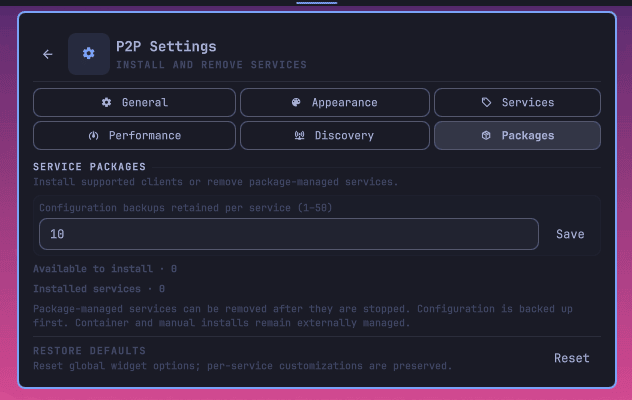
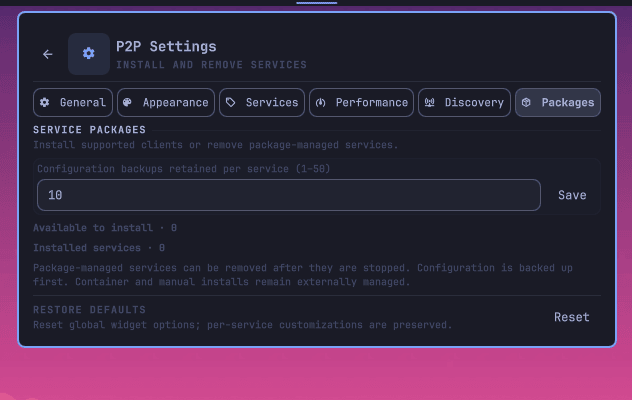
refactor: optimize settings layouts

diff --git a/P2PAppearanceSettings.qml b/P2PAppearanceSettings.qml
@@ -25,8 +25,10 @@ ColumnLayout {
             Button { text: "Save"; onClicked: page.saveWidgetIcon(widgetIconEditor.text) }
           }
 
-          IntegerSetting { controller: page.controller; settingKey: "popupMaxHeight"; label: "Popup maximum height"; minimum: 360; maximum: 900; fallback: 600 }
-          IntegerSetting { controller: page.controller; settingKey: "popupWidth"; label: "Popup width"; minimum: 420; maximum: 800; fallback: 600 }
+          P2PSettingsGrid {
+            IntegerSetting { controller: page.controller; settingKey: "popupMaxHeight"; label: "Popup maximum height"; minimum: 360; maximum: 900; fallback: 600 }
+            IntegerSetting { controller: page.controller; settingKey: "popupWidth"; label: "Popup width"; minimum: 420; maximum: 800; fallback: 600 }
+          }
           Dropdown { objectName: "barPresentationDropdown"; Layout.fillWidth: true; label: "Bar presentation"; value: String(page.controller.setting("barPresentation","active")); options: [{value:"icon",label:"Icon only"},{value:"active",label:"Active count"},{value:"active-total",label:"Active / total"},{value:"health",label:"Health indicator"},{value:"category-active",label:"Category active counts"},{value:"category-active-total",label:"Category active / total"}]; foreground: Color.popups.text; accent: Color.bar.active; onChanged: function(next) { page.controller.persistKeepingOpen({barPresentation:next}) } }
           P2PSettingToggle { controller: page.controller; settingKey: "hideZeroCount"; label: "Hide zero count"; fallback: false; description: "Show only the icon when no services are active." }
           ColumnLayout {
@@ -46,10 +48,12 @@ ColumnLayout {
               }
             }
           }
-          IntegerSetting { controller: page.controller; settingKey: "barFontSize"; label: "Bar font size"; minimum: 8; maximum: 28; fallback: 14 }
-          IntegerSetting { controller: page.controller; settingKey: "barHorizontalMargin"; label: "Horizontal margin"; minimum: 0; maximum: 24; fallback: 8 }
-          IntegerSetting { controller: page.controller; settingKey: "barVerticalPadding"; label: "Vertical padding"; minimum: 0; maximum: 16; fallback: 6 }
-          IntegerSetting { controller: page.controller; settingKey: "barFixedWidth"; label: "Fixed width (0 = automatic)"; minimum: 0; maximum: 240; fallback: 0 }
+          P2PSettingsGrid {
+            IntegerSetting { controller: page.controller; settingKey: "barFontSize"; label: "Bar font size"; minimum: 8; maximum: 28; fallback: 14 }
+            IntegerSetting { controller: page.controller; settingKey: "barHorizontalMargin"; label: "Horizontal margin"; minimum: 0; maximum: 24; fallback: 8 }
+            IntegerSetting { controller: page.controller; settingKey: "barVerticalPadding"; label: "Vertical padding"; minimum: 0; maximum: 16; fallback: 6 }
+            IntegerSetting { controller: page.controller; settingKey: "barFixedWidth"; label: "Fixed width (0 = automatic)"; minimum: 0; maximum: 240; fallback: 0 }
+          }
           Dropdown { objectName: "barTextRotationDropdown"; Layout.fillWidth: true; label: "Text rotation"; value: String(page.controller.setting("barTextRotation", "normal")); options: [{value:"normal",label:"Normal"},{value:"clockwise",label:"Clockwise"},{value:"counterclockwise",label:"Counterclockwise"}]; foreground: Color.popups.text; accent: Color.bar.active; onChanged: function(next) { page.controller.persistKeepingOpen({barTextRotation:next}) } }
           P2PThemeRoleSetting { controller: page.controller; settingKey: "barForegroundColorRole"; label: "Idle color"; fallback: "foreground" }
           P2PThemeRoleSetting { controller: page.controller; settingKey: "barActiveColorRole"; label: "Active color"; fallback: "accent" }

diff --git a/P2PPerformanceSettings.qml b/P2PPerformanceSettings.qml
@@ -29,9 +29,12 @@ ColumnLayout {
           }
           P2PSectionHeading { title: "Refresh cadence"; description: "Set periodic polling and full reconciliation intervals." }
           SettingsSurface {
-          IntegerSetting { controller: page.controller; settingKey: "refreshSeconds"; label: "Open-panel refresh interval, seconds"; minimum: 2; maximum: 60; fallback: 5 }
-          IntegerSetting { controller: page.controller; settingKey: "backgroundRefreshSeconds"; label: "Background refresh interval, seconds"; minimum: 15; maximum: 300; fallback: 15 }
-          IntegerSetting { controller: page.controller; settingKey: "reconcileSeconds"; label: "Full container reconciliation, seconds"; minimum: 30; maximum: 600; fallback: 60; description: "Full scans include stopped containers; normal refreshes inspect running containers only." }
+          P2PSettingsGrid {
+            id: refreshCadenceGrid
+            IntegerSetting { controller: page.controller; settingKey: "refreshSeconds"; label: "Open-panel refresh interval, seconds"; minimum: 2; maximum: 60; fallback: 5 }
+            IntegerSetting { controller: page.controller; settingKey: "backgroundRefreshSeconds"; label: "Background refresh interval, seconds"; minimum: 15; maximum: 300; fallback: 15 }
+            IntegerSetting { Layout.columnSpan: refreshCadenceGrid.twoColumns ? 2 : 1; controller: page.controller; settingKey: "reconcileSeconds"; label: "Full container reconciliation, seconds"; minimum: 30; maximum: 600; fallback: 60; description: "Full scans include stopped containers; normal refreshes inspect running containers only." }
+          }
           }
           P2PSectionHeading { title: "Refresh triggers"; description: "Control event-driven and immediate refresh behavior." }
           SettingsSurface {
@@ -43,12 +46,13 @@ ColumnLayout {
           }
           P2PSectionHeading { title: "Traffic sampling"; description: "Smooth container counters and ignore insignificant transfer activity." }
           SettingsSurface {
-          IntegerSetting { controller: page.controller; settingKey: "trafficSmoothingSeconds"; label: "Traffic smoothing window, seconds"; minimum: 1; maximum: 30; fallback: 3 }
-          IntegerSetting { controller: page.controller; settingKey: "trafficMinimumBytesPerSecond"; label: "Minimum visible traffic, B/s"; minimum: 0; maximum: 10485760; fallback: 1024 }
+          P2PSettingsGrid {
+            IntegerSetting { controller: page.controller; settingKey: "trafficSmoothingSeconds"; label: "Traffic smoothing window, seconds"; minimum: 1; maximum: 30; fallback: 3 }
+            IntegerSetting { controller: page.controller; settingKey: "trafficMinimumBytesPerSecond"; label: "Minimum visible traffic, B/s"; minimum: 0; maximum: 10485760; fallback: 1024 }
+          }
           }
           P2PSectionHeading { title: "Monitor diagnostics"; description: "Live health from the shared background watcher." }
           SettingsSurface {
           Text { Layout.fillWidth: true; text: page.controller.monitoringTelemetryText(); textFormat: Text.PlainText; color: page.controller.p2pService && page.controller.p2pService.watcherHealth === "healthy" ? Color.muted : Color.urgent; wrapMode: Text.WordWrap; font.family: Style.font.family; font.pixelSize: Style.font.caption }
           }
 }
-

diff --git a/P2PGeneralSettings.qml b/P2PGeneralSettings.qml
@@ -48,7 +48,9 @@ ColumnLayout {
           P2PSettingToggle { controller: page.controller; settingKey: "notifyRecovery"; label: "Service recovery"; fallback: false }
           P2PSettingToggle { controller: page.controller; settingKey: "notifyUnhealthy"; label: "Unhealthy services"; fallback: true }
           P2PSettingToggle { controller: page.controller; settingKey: "notifyRestartEvents"; label: "Restart threshold"; fallback: true }
-          IntegerSetting { controller: page.controller; settingKey: "notificationCooldownSeconds"; label: "Notification cooldown, seconds"; minimum: 0; maximum: 300; fallback: 30 }
-          IntegerSetting { controller: page.controller; settingKey: "restartWarningThreshold"; label: "Restart warning threshold"; minimum: 1; maximum: 100; fallback: 3 }
+          P2PSettingsGrid {
+            IntegerSetting { controller: page.controller; settingKey: "notificationCooldownSeconds"; label: "Notification cooldown, seconds"; minimum: 0; maximum: 300; fallback: 30 }
+            IntegerSetting { controller: page.controller; settingKey: "restartWarningThreshold"; label: "Restart warning threshold"; minimum: 1; maximum: 100; fallback: 3 }
+          }
           }
 }

diff --git a/RuntimeSettingsNavigationTest.qml b/RuntimeSettingsNavigationTest.qml
@@ -19,7 +19,7 @@ ShellRoot {
     }
   }
 
-  P2PSettingsNavigation { id: navigation; controller: mockController }
+  P2PSettingsNavigation { id: navigation; width: 600; controller: mockController }
 
   function descendant(item, name) {
     if (!item) return null
@@ -37,7 +37,11 @@ ShellRoot {
     var back = descendant(navigation, "settingsBackButton")
     var saving = descendant(navigation, "settingsSaveLoadingIndicator")
     var saved = descendant(navigation, "settingsSavedStatus")
+    var pageGrid = descendant(navigation, "settingsPageGrid")
     if (!services || !back || !saving || !saved) throw new Error("settings navigation controls are not addressable")
+    if (!navigation.wideTabs || !pageGrid || pageGrid.columns !== 6) throw new Error("wide settings navigation did not use one row")
+    navigation.width = 400
+    if (navigation.wideTabs || pageGrid.columns !== 3) throw new Error("narrow settings navigation did not wrap responsively")
     if (!saving.visible || saved.visible) throw new Error("settings saving presentation failed")
     mockController.settingsSaveStatus = "saved"
     if (saving.visible || !saved.visible) throw new Error("settings saved presentation failed")

diff --git a/P2PSettingsNavigation.qml b/P2PSettingsNavigation.qml
@@ -7,6 +7,7 @@ import qs.Ui
 ColumnLayout {
   id: navigation
   required property var controller
+  readonly property bool wideTabs: width >= Style.space(540)
   Layout.fillWidth: true
   spacing: Style.spacing.md
 
@@ -43,8 +44,9 @@ ColumnLayout {
   PanelSeparator { Layout.fillWidth: true; foreground: navigation.controller.bar ? navigation.controller.bar.foreground : Color.popups.text }
 
   GridLayout {
+    objectName: "settingsPageGrid"
     Layout.fillWidth: true
-    columns: 3
+    columns: navigation.wideTabs ? 6 : 3
     rowSpacing: Style.spacing.sm
     columnSpacing: Style.spacing.sm
     Repeater {
@@ -65,7 +67,7 @@ ColumnLayout {
         selected: active
         bordered: true
         fontSize: Style.font.bodySmall
-        horizontalPadding: Style.spacing.controlPaddingX
+        horizontalPadding: navigation.wideTabs ? Style.spacing.controlGap : Style.spacing.controlPaddingX
         verticalPadding: Style.spacing.controlPaddingY
         onClicked: navigation.controller.showSettingsPage(modelData.value)
       }

diff --git a/RuntimeSettingsControlsTest.qml b/RuntimeSettingsControlsTest.qml
@@ -32,6 +32,13 @@ ShellRoot {
     fallback: 6
   }
 
+  P2PSettingsGrid {
+    id: settingsGrid
+    width: 600
+    Item { implicitWidth: 100; implicitHeight: 20 }
+    Item { implicitWidth: 100; implicitHeight: 20 }
+  }
+
   function descendant(item, name) {
     if (!item) return null
     if (item.objectName === name) return item
@@ -44,6 +51,9 @@ ShellRoot {
   }
 
   Component.onCompleted: Qt.callLater(function() {
+    if (!settingsGrid.twoColumns || settingsGrid.columns !== 2) throw new Error("wide settings field grid did not use horizontal space")
+    settingsGrid.width = 400
+    if (settingsGrid.twoColumns || settingsGrid.columns !== 1) throw new Error("narrow settings field grid did not collapse")
     if (settingToggle.checked) throw new Error("toggle did not reflect stored false value")
     settingToggle.clicked()
     if (mockController.patches.length !== 1 || mockController.patches[0].enabled !== true || !settingToggle.checked)

diff --git a/SettingsSurface.qml b/SettingsSurface.qml
@@ -9,7 +9,7 @@ Rectangle {
   property color accent: Color.muted
 
   Layout.fillWidth: true
-  implicitHeight: surfaceColumn.implicitHeight + Style.spacing.md * 2
+  implicitHeight: surfaceColumn.implicitHeight + Style.spacing.sm * 2
   radius: Style.cornerRadius
   color: Util.alpha(accent, 0.035)
   border.width: 1
@@ -18,7 +18,7 @@ Rectangle {
   ColumnLayout {
     id: surfaceColumn
     anchors.fill: parent
-    anchors.margins: Style.spacing.md
-    spacing: Style.spacing.md
+    anchors.margins: Style.spacing.sm
+    spacing: Style.spacing.sm
   }
 }

diff --git a/P2PSettingsGrid.qml b/P2PSettingsGrid.qml
@@ -1,0 +1,14 @@
+import QtQuick
+import QtQuick.Layouts
+import qs.Commons
+
+GridLayout {
+  id: grid
+  objectName: "settingsFieldGrid"
+  readonly property bool twoColumns: width >= Style.space(520)
+
+  Layout.fillWidth: true
+  columns: twoColumns ? 2 : 1
+  columnSpacing: Style.spacing.md
+  rowSpacing: Style.spacing.sm
+}

diff --git a/P2PSectionHeading.qml b/P2PSectionHeading.qml
@@ -6,7 +6,7 @@ ColumnLayout {
   property string title: ""
   property string description: ""
   Layout.fillWidth: true
-  Layout.topMargin: Style.spacing.sm
+  Layout.topMargin: 0
   spacing: 1
   RowLayout {
     Layout.fillWidth: true

diff --git a/README.md b/README.md
@@ -7,15 +7,15 @@ peer-to-peer clients and overlay-network daemons.
 [Source](https://github.com/bolens/omarchy-p2p-services) ·
 [Report an issue](https://github.com/bolens/omarchy-p2p-services/issues/new/choose)
 
-![P2P Services status panel with privacy filtering enabled](preview.png?v=0b8d047f5d45)
+![P2P Services status panel with privacy filtering enabled](preview.png?v=3b7f4c58d582)
 
 | General settings | Performance settings | Bar widget |
 | --- | --- | --- |
-| ![P2P Services privacy and behavior settings](docs/general.png?v=fc9347ee90b7) | ![P2P Services refresh and resource settings](docs/performance.png?v=562393b380f6) | ![P2P Services Omarchy bar widget](docs/bar.png?v=f1f8ab12287a) |
+| ![P2P Services privacy and behavior settings](docs/general.png?v=201898112cb0) | ![P2P Services refresh and resource settings](docs/performance.png?v=a67f887fdd5f) | ![P2P Services Omarchy bar widget](docs/bar.png?v=f1f8ab12287a) |
 
 | Compact icon list | Two-column grid |
 | --- | --- |
-| ![P2P Services compact icon list](docs/compact.png?v=3066de817bb1) | ![P2P Services two-column service grid](docs/grid.png?v=ceaf8d6f9410) |
+| ![P2P Services compact icon list](docs/compact.png?v=1a4cc8d8b56a) | ![P2P Services two-column service grid](docs/grid.png?v=6c3bb4f3ba04) |
 
 Supported backends include Yggdrasil, Tailscale, ZeroTier, Nebula, Headscale,
 NetBird, NetBird Server, Netmaker, Netmaker Client, I2P/I2Pd, Freenet/Hyphanet, AirDC++,
